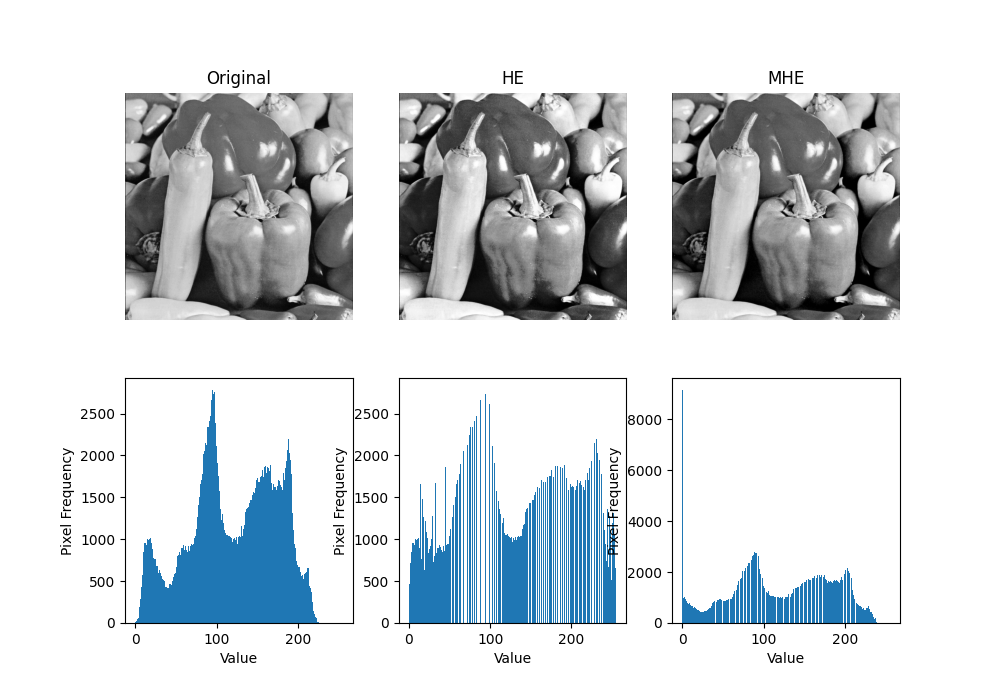
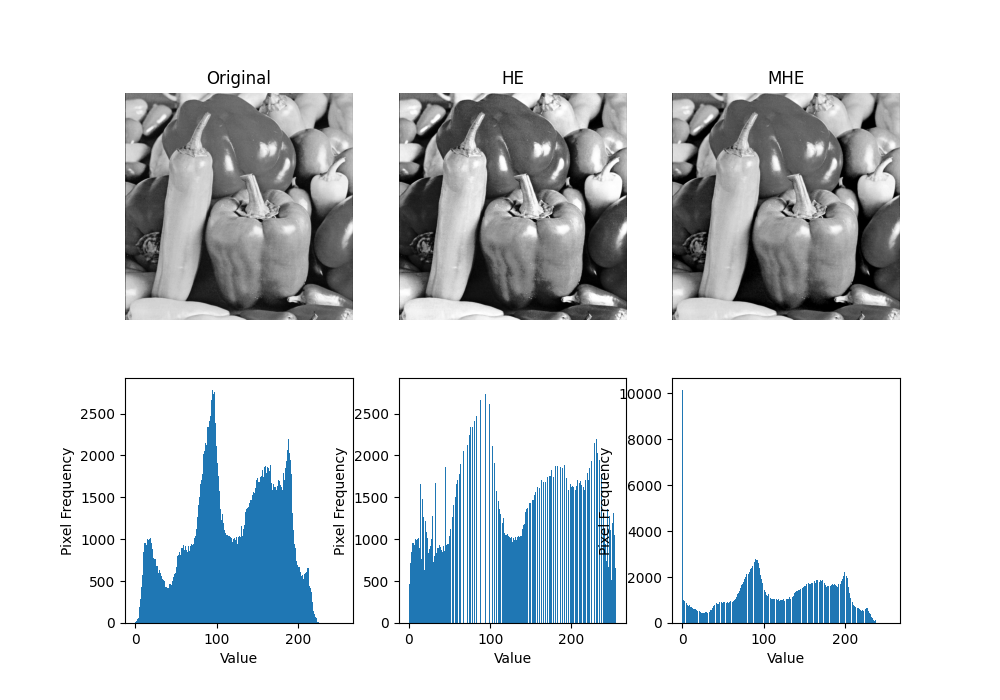
added some test img

diff --git a/wthe_bat/main.py b/wthe_bat/main.py
@@ -2,6 +2,7 @@ from tkinter.tix import COLUMN, ROW
 import numpy as np
 import cv2
 from imWeightedThresholdedheq import imWTHeq
+from tqdm import tqdm
 import math
 import skimage.measure
 import numpy as np
@@ -64,7 +65,7 @@ class wthe_bat():
         S = np.zeros((self.N_pop, self.dimension))  # the location of the bats
         self.init_bat()
 
-        for t in range(self.N_gen):
+        for t in tqdm(range(self.N_gen), desc="moving bats"):
             for i in range(self.N_pop):
                 self.Q[i] = np.random.uniform(self.Qmin, self.Qmax)
                 self.V[i] += (self.solution[i] - self.best) * self.Q[i]
@@ -93,7 +94,6 @@ class wthe_bat():
                 if Fnew <= self.min_fitness:
                     self.best = S[i]
                     self.min_fitness = Fnew
-            print(t)
             
         print("Best =", self.best, "\nfmin =", self.min_fitness)
         heq_img, Wout = imWTHeq(self.og_img, r=self.best[0], v=self.best[1])
@@ -107,7 +107,7 @@ class wthe_bat():
 if __name__ == "__main__":
     test_img_dir = "test_img/"
     result_img_dir = "result_img/"
-    og_img_name = "einstein"
+    og_img_name = "peppers"
     og_img_fname = og_img_name + ".jpg"
     print(og_img_fname)
     og_img = cv2.imread(test_img_dir + og_img_fname, cv2.IMREAD_GRAYSCALE)
